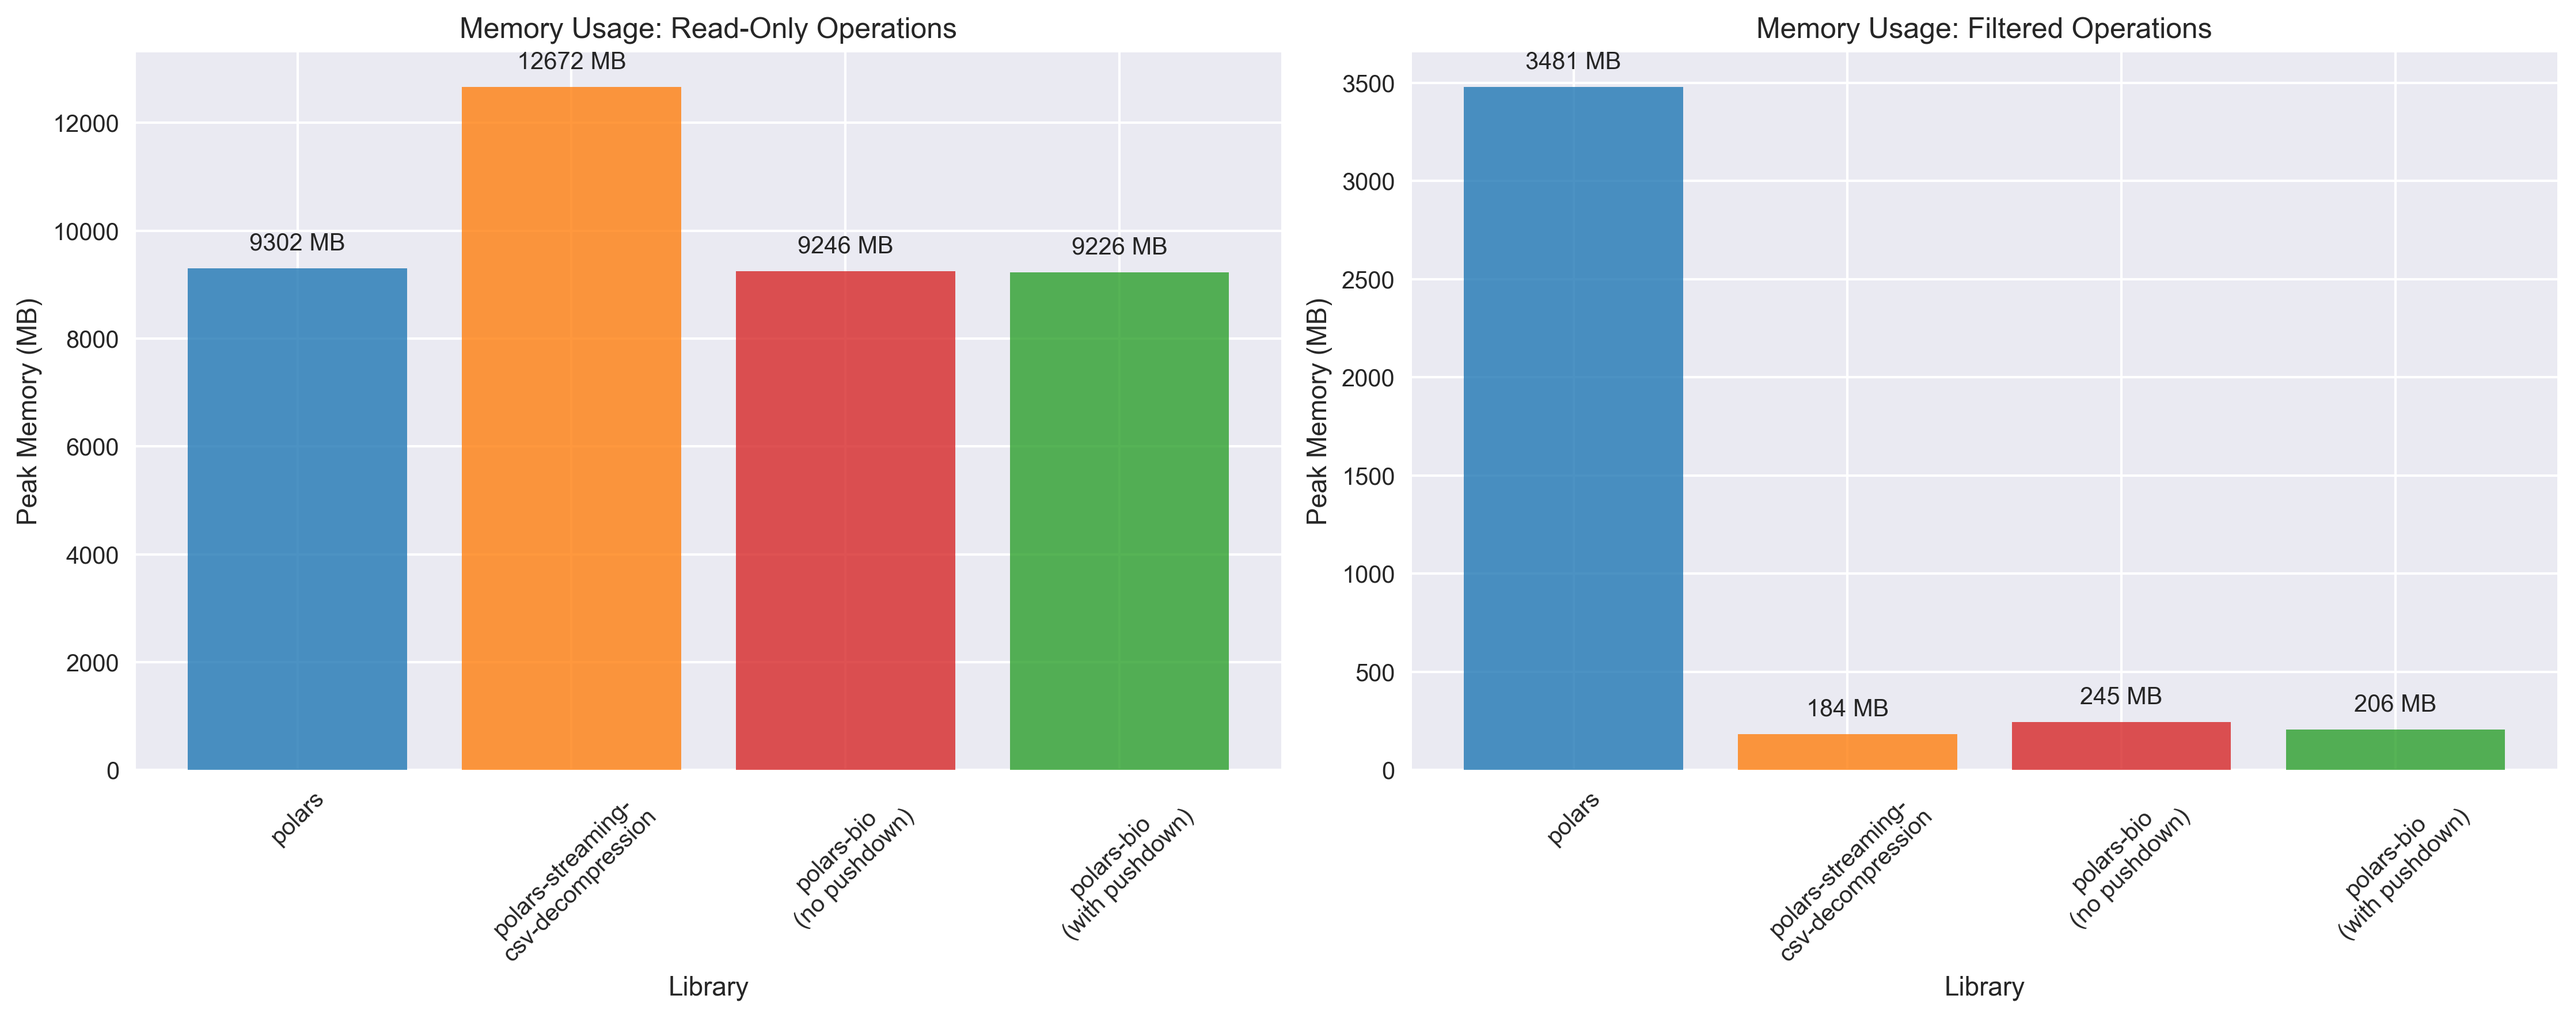
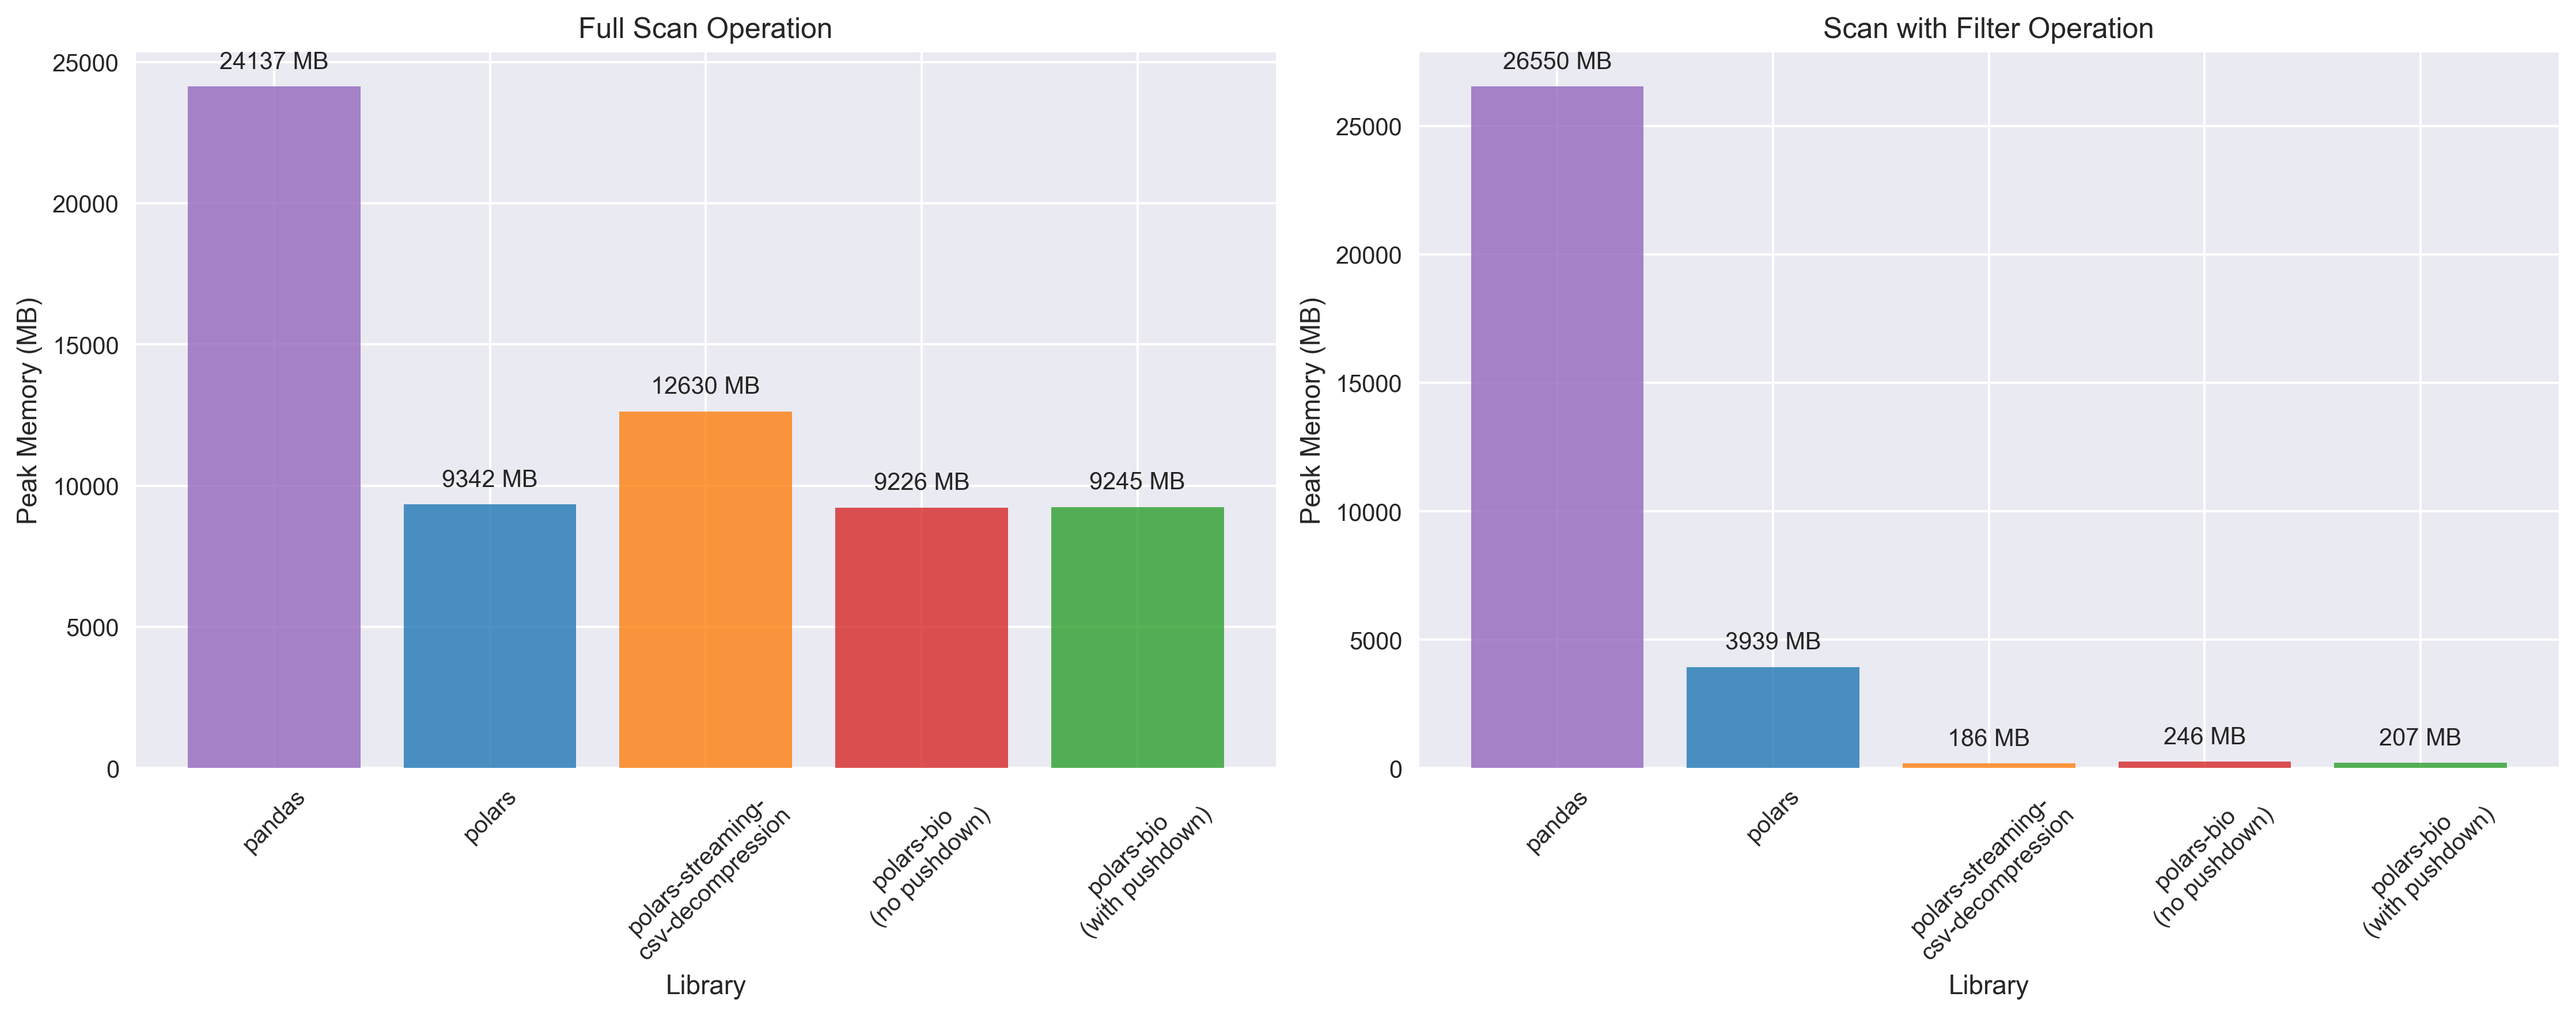
Figures update

diff --git a/benchmarks/visualize_results.py b/benchmarks/visualize_results.py
@@ -169,6 +169,7 @@ def plot_memory_comparison():
 
     # Define consistent colors to match thread scalability plot
     color_map = {
+        "pandas": "#9467bd",  # Purple
         "polars": "#1f77b4",  # Blue
         "polars-streaming": "#ff7f0e",  # Orange
         "polars-streaming-csv-decompression": "#ff7f0e",  # Orange (same as polars-streaming)
@@ -203,7 +204,7 @@ def plot_memory_comparison():
                 plot_colors.append(color_map.get(row["library"], "#7f7f7f"))
 
         bars1 = ax1.bar(plot_labels, plot_data, color=plot_colors, alpha=0.8)
-        ax1.set_title("Memory Usage: Read-Only Operations")
+        ax1.set_title("Full Scan Operation")
         ax1.set_ylabel("Peak Memory (MB)")
         ax1.set_xlabel("Library")
         ax1.tick_params(axis="x", rotation=45)
@@ -245,7 +246,7 @@ def plot_memory_comparison():
                 plot_colors.append(color_map.get(row["library"], "#7f7f7f"))
 
         bars2 = ax2.bar(plot_labels, plot_data, color=plot_colors, alpha=0.8)
-        ax2.set_title("Memory Usage: Filtered Operations")
+        ax2.set_title("Scan with Filter Operation")
         ax2.set_ylabel("Peak Memory (MB)")
         ax2.set_xlabel("Library")
         ax2.tick_params(axis="x", rotation=45)
@@ -277,6 +278,16 @@ def plot_thread_scalability():
 
     fig, ((ax1, ax2), (ax3, ax4)) = plt.subplots(2, 2, figsize=(16, 12))
 
+    # Define consistent colors to match other benchmarks
+    color_map = {
+        "pandas": "#9467bd",  # Purple
+        "polars": "#1f77b4",  # Blue
+        "polars-streaming": "#ff7f0e",  # Orange
+        "polars-streaming-csv-decompression": "#ff7f0e",  # Orange (same as polars-streaming)
+        "polars-bio": "#2ca02c",  # Green
+        "polars-bio-no-pushdown": "#d62728",  # Red
+    }
+
     # Read-only absolute time performance
     if not read_only_data.empty:
         for library in read_only_data["library"].unique():
@@ -294,6 +305,7 @@ def plot_thread_scalability():
                 label=label,
                 linewidth=2,
                 markersize=6,
+                color=color_map.get(library, "#7f7f7f"),
             )
             ax1.fill_between(
                 lib_data["threads"],
@@ -302,7 +314,7 @@ def plot_thread_scalability():
                 alpha=0.2,
             )
 
-        ax1.set_title("Read-Only Operations: Absolute Time")
+        ax1.set_title("Full Scan Operation: Wall Time")
         ax1.set_xlabel("Number of Threads")
         ax1.set_ylabel("Time (seconds)")
         ax1.legend()
@@ -335,6 +347,7 @@ def plot_thread_scalability():
                     label=label,
                     linewidth=2,
                     markersize=6,
+                    color=color_map.get(library, "#7f7f7f"),
                 )
 
         # Add ideal speedup line
@@ -342,7 +355,7 @@ def plot_thread_scalability():
         ideal_threads = np.arange(1, max_threads + 1)
         ax2.plot(ideal_threads, ideal_threads, "k--", alpha=0.5, label="Ideal Speedup")
 
-        ax2.set_title("Read-Only Operations: Speedup vs 1 Thread")
+        ax2.set_title("Full Scan Operation: Speedup vs 1 Thread")
         ax2.set_xlabel("Number of Threads")
         ax2.set_ylabel("Speedup (higher is better)")
         ax2.legend()
@@ -365,6 +378,7 @@ def plot_thread_scalability():
                 label=label,
                 linewidth=2,
                 markersize=6,
+                color=color_map.get(library, "#7f7f7f"),
             )
             ax3.fill_between(
                 lib_data["threads"],
@@ -373,7 +387,7 @@ def plot_thread_scalability():
                 alpha=0.2,
             )
 
-        ax3.set_title("Filtered Operations: Absolute Time")
+        ax3.set_title("Scan with Filter Operation: Wall Time")
         ax3.set_xlabel("Number of Threads")
         ax3.set_ylabel("Time (seconds)")
         ax3.legend()
@@ -406,6 +420,7 @@ def plot_thread_scalability():
                     label=label,
                     linewidth=2,
                     markersize=6,
+                    color=color_map.get(library, "#7f7f7f"),
                 )
 
         # Add ideal speedup line
@@ -413,7 +428,7 @@ def plot_thread_scalability():
         ideal_threads = np.arange(1, max_threads + 1)
         ax4.plot(ideal_threads, ideal_threads, "k--", alpha=0.5, label="Ideal Speedup")
 
-        ax4.set_title("Filtered Operations: Speedup vs 1 Thread")
+        ax4.set_title("Scan with Filter Operation: Speedup vs 1 Thread")
         ax4.set_xlabel("Number of Threads")
         ax4.set_ylabel("Speedup (higher is better)")
         ax4.legend()

diff --git a/benchmarks/02_memory_profiling.py b/benchmarks/02_memory_profiling.py
@@ -301,28 +301,28 @@ def main():
     for test_type, description in test_cases:
         print(f"\n=== {description} ===")
 
-        # # Pandas
-        # print(f"Profiling Pandas memory usage and wall time ({test_type})...")
-        # pandas_script = create_pandas_script(test_type)
-        # try:
-        #     pandas_memory, pandas_time = run_memory_profile(pandas_script, "pandas")
-        #     if pandas_memory is not None and pandas_time is not None:
-        #         results.append(
-        #             {
-        #                 "library": "pandas",
-        #                 "test_type": test_type,
-        #                 "projection_pushdown": False,
-        #                 "predicate_pushdown": False,
-        #                 "max_memory_mb": pandas_memory,
-        #                 "wall_time_s": pandas_time,
-        #                 "threads": 1,
-        #             }
-        #         )
-        #         print(
-        #             f"  Max memory: {pandas_memory:.1f} MB, Wall time: {pandas_time:.3f}s"
-        #         )
-        # finally:
-        #     Path(pandas_script).unlink()
+        # Pandas
+        print(f"Profiling Pandas memory usage and wall time ({test_type})...")
+        pandas_script = create_pandas_script(test_type)
+        try:
+            pandas_memory, pandas_time = run_memory_profile(pandas_script, "pandas")
+            if pandas_memory is not None and pandas_time is not None:
+                results.append(
+                    {
+                        "library": "pandas",
+                        "test_type": test_type,
+                        "projection_pushdown": False,
+                        "predicate_pushdown": False,
+                        "max_memory_mb": pandas_memory,
+                        "wall_time_s": pandas_time,
+                        "threads": 1,
+                    }
+                )
+                print(
+                    f"  Max memory: {pandas_memory:.1f} MB, Wall time: {pandas_time:.3f}s"
+                )
+        finally:
+            Path(pandas_script).unlink()
 
         # Polars
         print(f"Profiling Polars memory usage and wall time ({test_type})...")

diff --git a/docs/blog/posts/gff-read-optimizations-2025-09.md b/docs/blog/posts/gff-read-optimizations-2025-09.md
@@ -12,7 +12,7 @@ categories:
 
 # GFF File Reading Performance Enhancements in polars-bio 0.15.0
 
-We're excited to announce significant performance improvements to GFF file reading in polars-bio 0.15.0. This release introduces two major optimizations that dramatically improve both speed and memory efficiency when working with GFF files:
+We're excited to announce significant performance improvements to GFF file reading in polars-bio `0.15.0`. This release introduces two major optimizations that dramatically improve both speed and memory efficiency when working with GFF files:
 
 ## Key Enhancements
 
@@ -26,15 +26,23 @@ We're excited to announce significant performance improvements to GFF file readi
 
 To evaluate these improvements, we conducted comprehensive benchmarks comparing three popular data processing libraries:
 
-- **pandas**: The traditional Python data analysis library
-- **polars**: High-performance DataFrame library with lazy evaluation
+- **Pandas**: The traditional Python data analysis library
+- **Polars**: High-performance DataFrame library with lazy evaluation
 - **polars-bio**: Our specialized genomic data processing library built on Polars and Apache DataFusion
 
-All benchmarks were performed on a large GFF file (~7.7 million records) with both read-only and filtered query scenarios to demonstrate real-world performance gains.
+All benchmarks were performed on a large GFF file (~7.7 million records, [file](https://drive.google.com/file/d/1PsHqKG-gyRJy5-sNzuH3xRntw4Er--Si/view?usp=sharing) and [index](https://drive.google.com/file/d/173RT5Afi2jAh64uCJwNRGHF4ozYU-xzX/view?usp=sharing) needed for parallel reading) with both full scan and filtered query scenarios to demonstrate real-world performance gains.
+
+For pandas and polars reading, we used the following [methods](https://github.com/biodatageeks/polars-bio/blob/master/benchmarks/gff_parsers.py) (thanks to [@urineri](https://github.com/urineri) for the Polars code).
+Since Polars decompresses compressed CSV/TSV files completely in memory as highlighted [here](https://github.com/ghuls/polars_streaming_csv_decompression/blob/main/README.md), we also used `polars_streaming_csv_decompression` a great plugin developed by [@ghuls](https://github.com/ghuls/polars_streaming_csv_decompression) to enable streaming decompression in Polars.
+
 
 ## Results
 
 ## Single-threaded performance
+
+
+Key takeaways:
+
 
 
 
